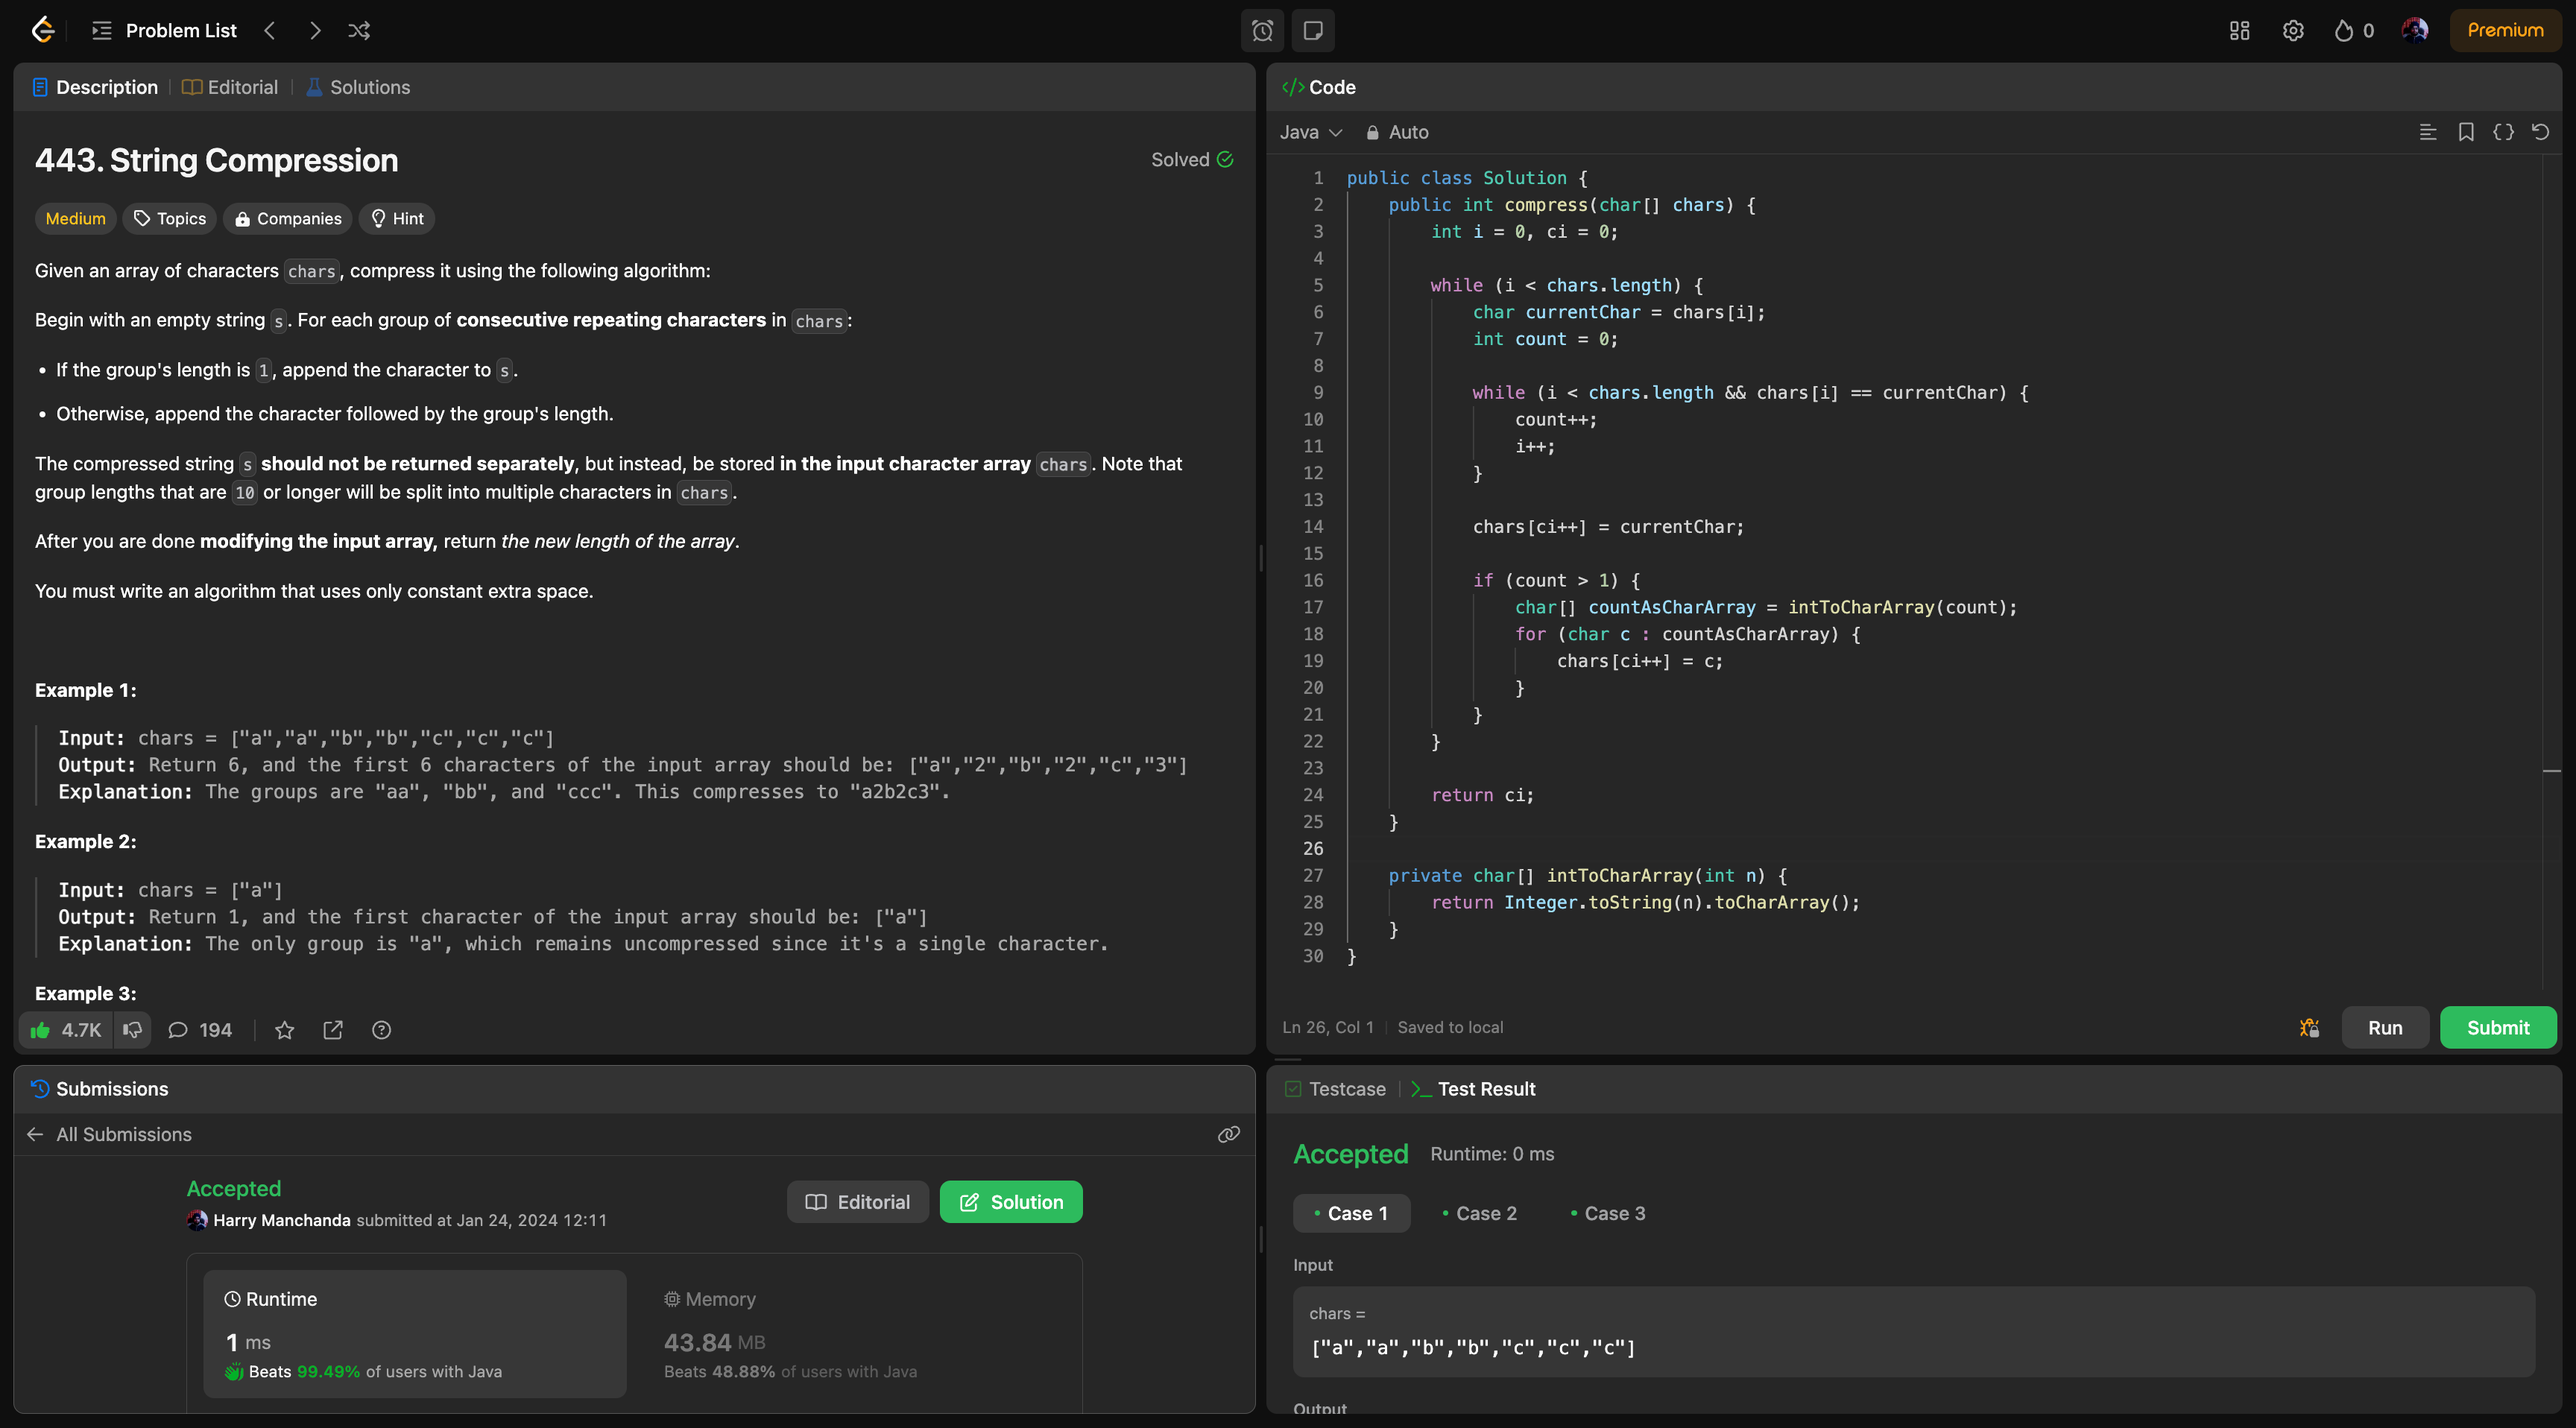
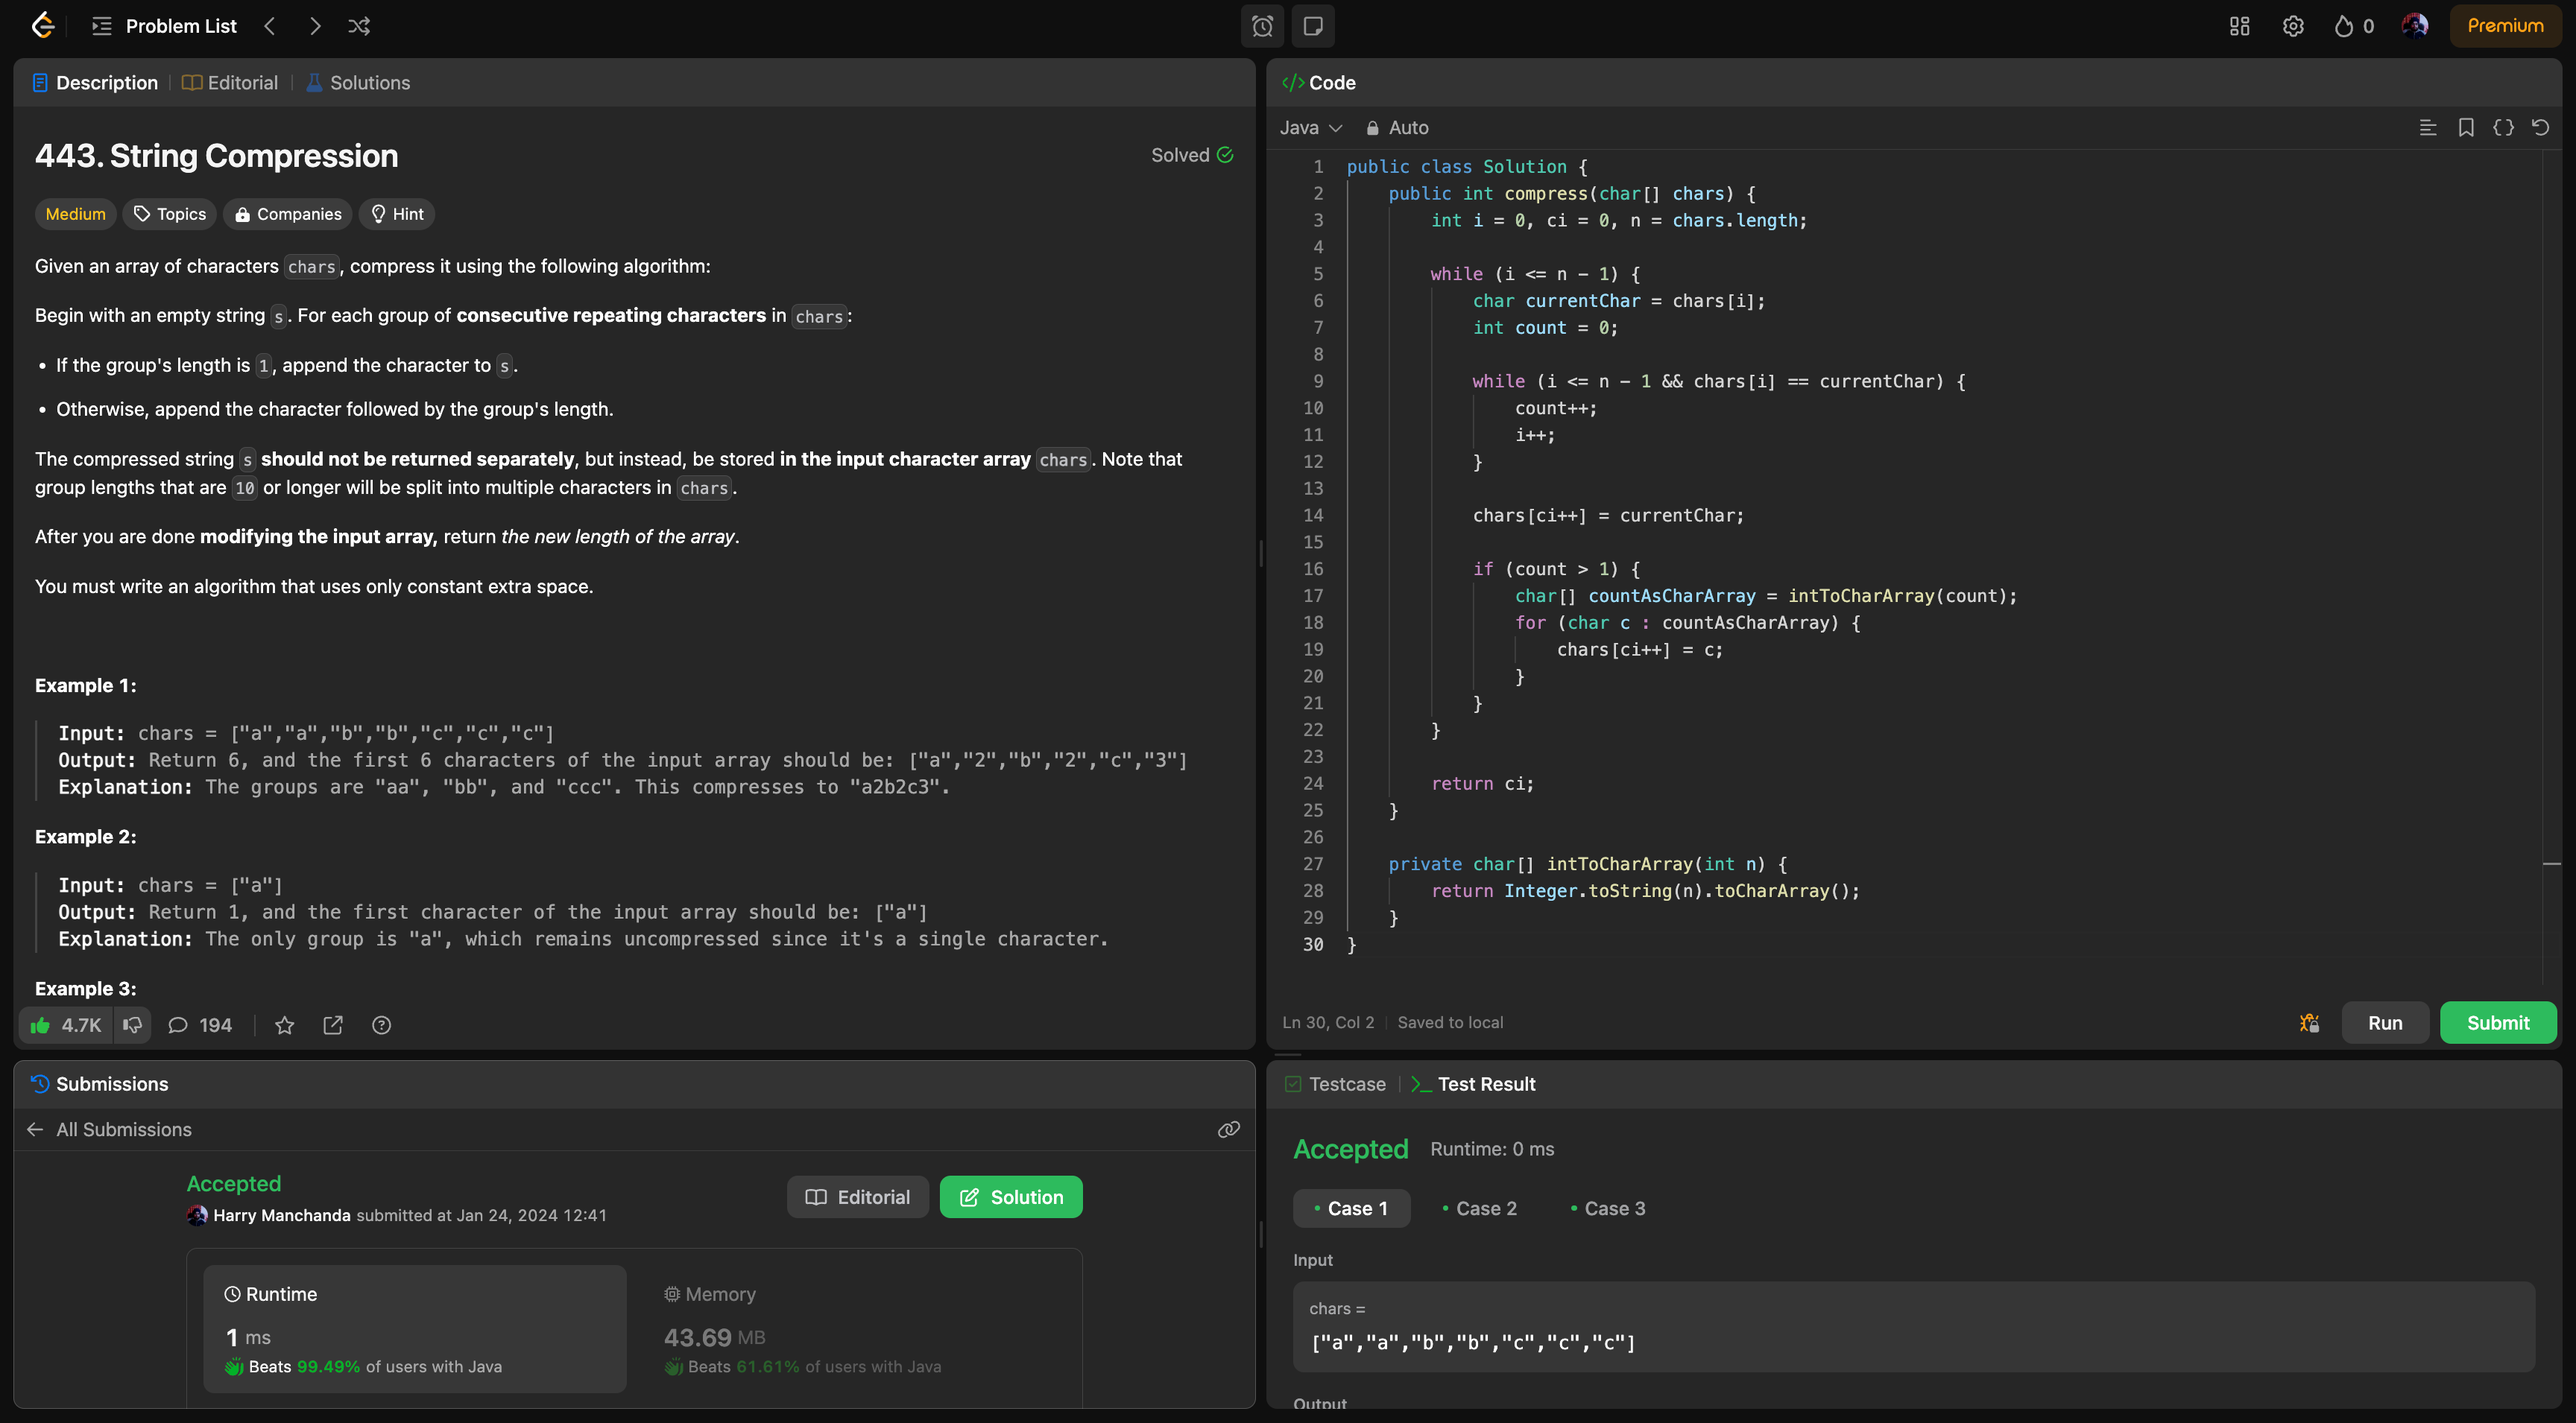
code updates

diff --git a/071-string-compression/002-solution/Solution.java b/071-string-compression/002-solution/Solution.java
@@ -8,13 +8,13 @@
 
 public class Solution {
     public int compress(char[] chars) {
-        int i = 0, ci = 0;
+        int i = 0, ci = 0, n = chars.length;
 
-        while (i < chars.length) {
+        while (i <= n - 1) {
             char currentChar = chars[i];
             int count = 0;
 
-            while (i < chars.length && chars[i] == currentChar) {
+            while (i <= n - 1 && chars[i] == currentChar) {
                 count++;
                 i++;
             }
